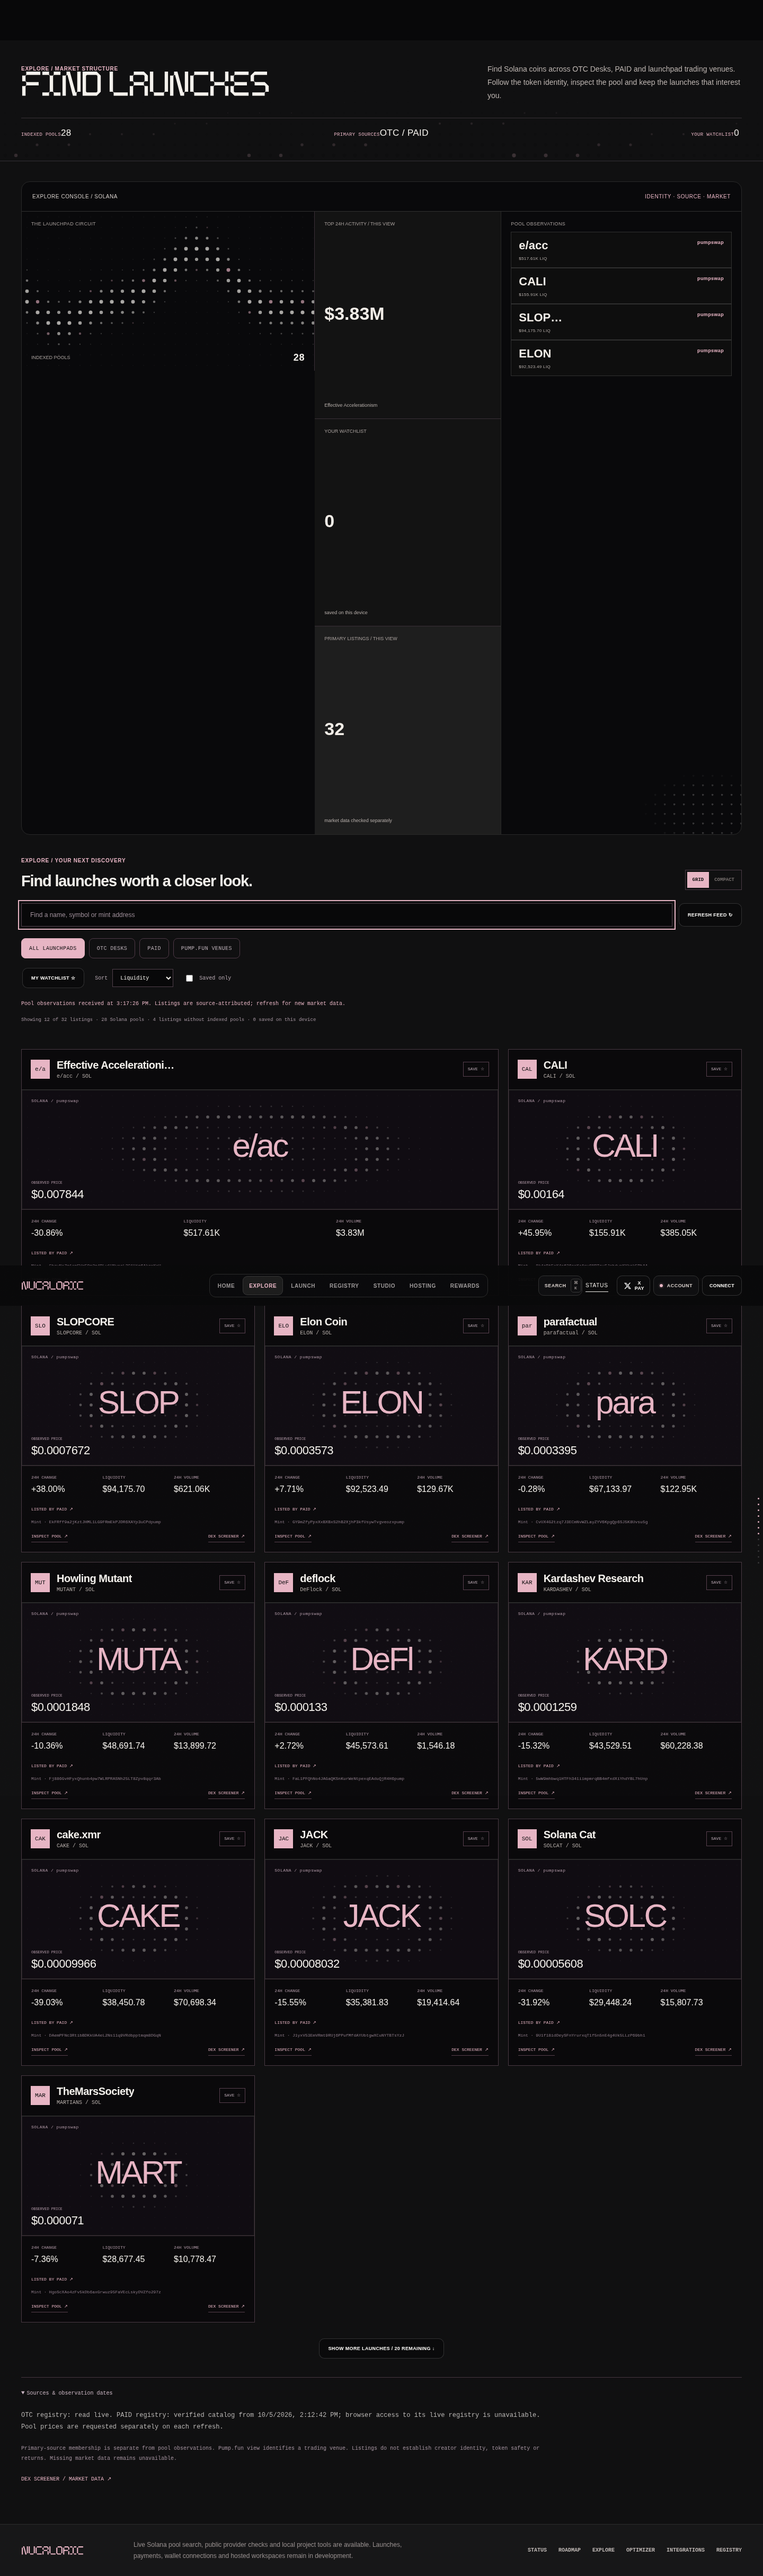
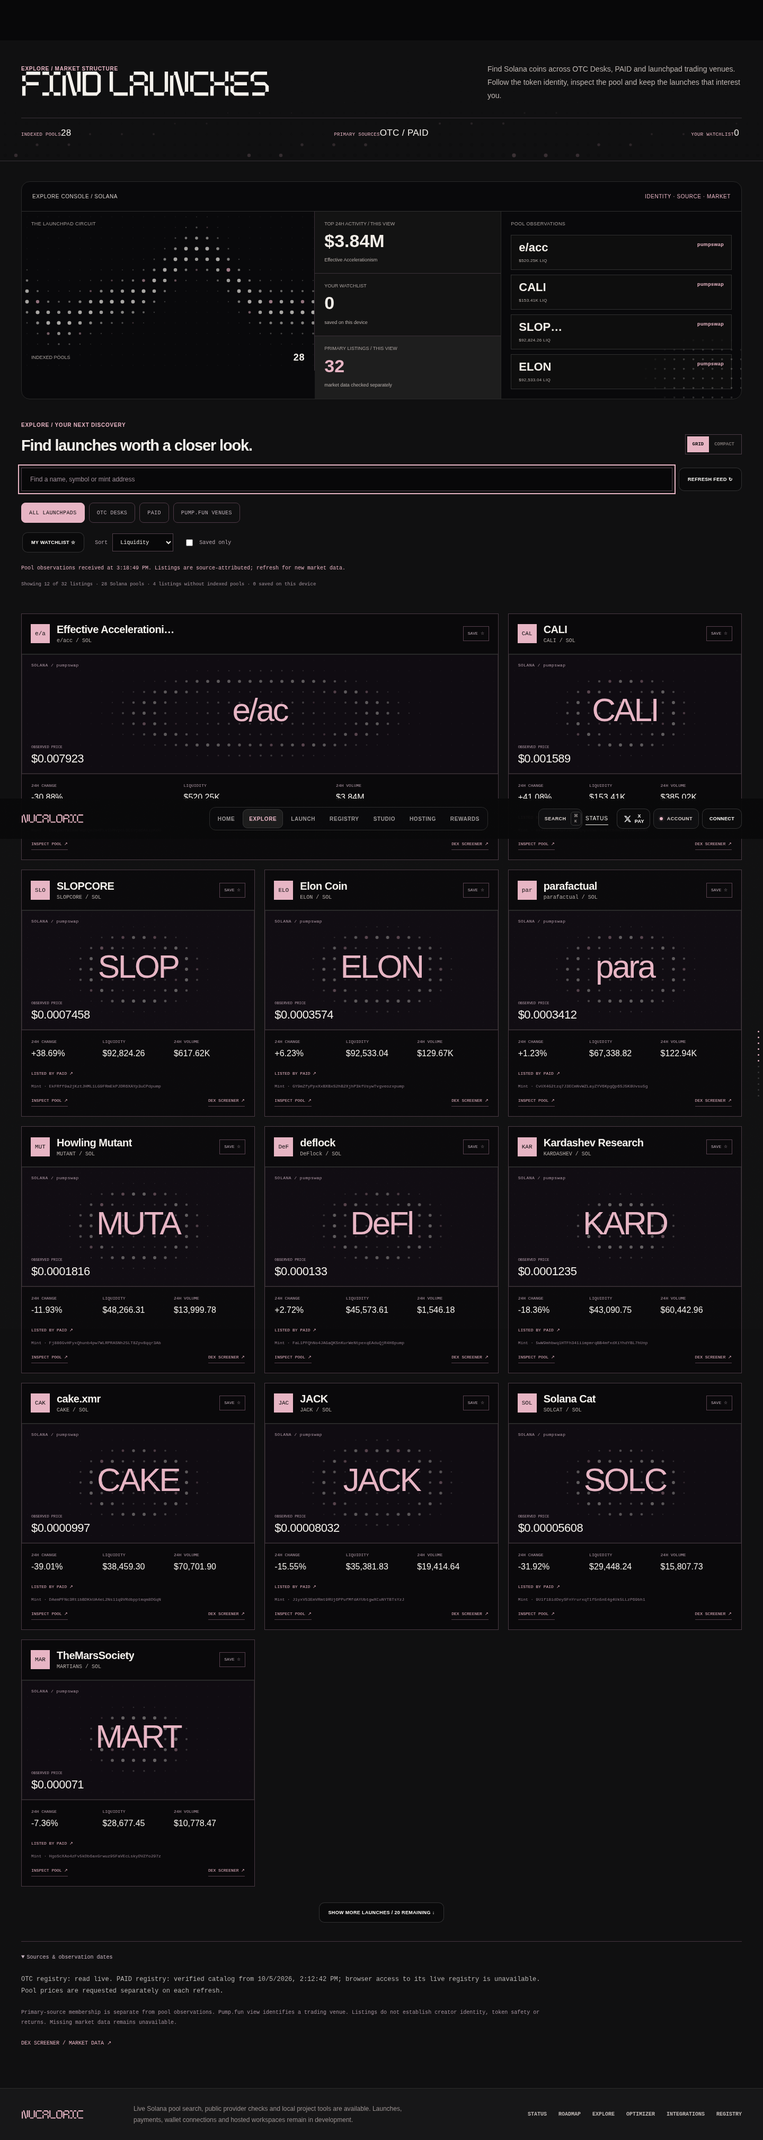
Update compact Explore console and final review screenshots

diff --git a/website/refinement.css b/website/refinement.css
@@ -14,3 +14,5 @@
 /* Keep the responsive canvas out of intrinsic grid sizing to prevent resize growth. */
 .explorer-refined .terminal-market{position:relative;grid-template-rows:auto 1fr auto;height:300px;overflow:hidden}.explorer-refined #explorePulseCanvas{position:absolute;left:0;top:0;width:100%;height:100%;z-index:0;pointer-events:none}.explorer-refined .terminal-market>.terminal-label,.explorer-refined .terminal-market>.terminal-foot{position:relative;z-index:1}.explorer-refined .terminal-market>.terminal-foot{grid-row:3}
 @media(max-width:759px){.explorer-refined .terminal-market{height:260px}}
+.explorer-refined .terminal-queue{display:flex;flex-direction:column;gap:16px}.explorer-refined #explorePoolQueue{display:grid;gap:9px;align-content:start}.explorer-refined .queue-row{min-height:46px;padding:12px 14px}.explorer-refined .terminal-stat.pink b{color:#e7b5c4!important}
+@media(max-width:759px){.explorer-refined .terminal-stack{grid-template-rows:auto auto}.explorer-refined .queue-row{min-height:48px}}
